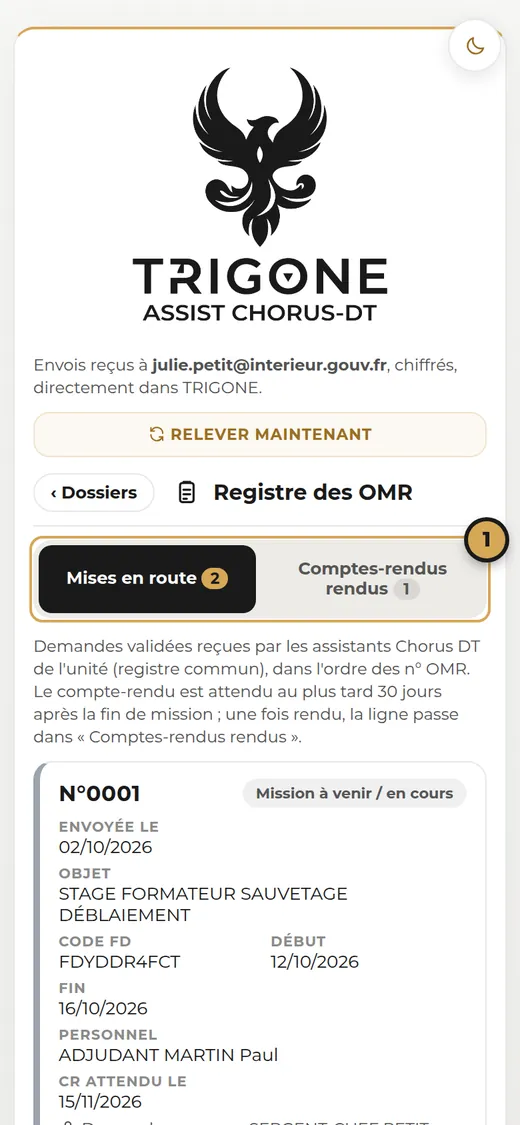
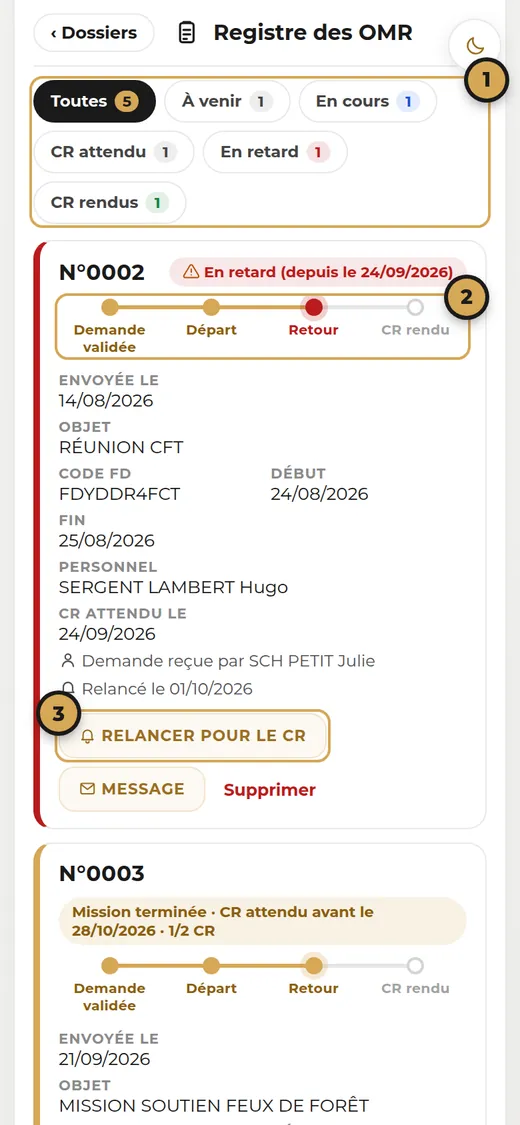
V154 : registre des OMR en un seul tableau, mis à jour tout seul (#216)
* Registre des OMR : un seul tableau avec l'étape de chaque mission (en attente de validation)

Claude-Session: https://claude.ai/code/session_01NStkfCttCkWn8HaycQvLWX

* V154 : registre des OMR en un seul tableau, étape de chaque mission, mis à jour tout seul

Claude-Session: https://claude.ai/code/session_01NStkfCttCkWn8HaycQvLWX

---------

Changed region(s): [[0.0308, 0.0, 0.9846, 1.0], [0.7385, 0.8711, 0.7692, 0.9022]]

diff --git a/app.js b/app.js
@@ -1,7 +1,7 @@
 // ===================== TRIGONE MISE EN ROUTE — logique =====================
 var MER_VERSION = 1;          // version du format des fichiers .json échangés
 // Version du code de l'appli : à augmenter à chaque publication, avec « appCodeVersion » dans updates-manifest.json.
-var APP_CODE_VERSION = 201;
+var APP_CODE_VERSION = 202;
 // Numéro de version affiché (« V1 », « V2 »…) : repart de 1 au lancement de TRIGONE jumelé et suit ensuite chaque
 // publication. APP_CODE_VERSION reste le compteur interne des mises à jour (ne jamais le faire redescendre).
 var APP_VERSION_AFFICHEE = APP_CODE_VERSION - 48;
@@ -3769,7 +3769,7 @@ function TPL_CHORUS() {
 // dates de mission, personnel, échéance du compte-rendu = fin de mission + 30 jours, marquant d'état) ; relance ou
 // message au(x) missionnaire(s) ; suppression (mission annulée). Onglet « Comptes-rendus » : les lignes dont le
 // compte-rendu est rendu, avec les montants déclarés et le total. PDF de chaque onglet. Nouvelle série de numéros.
-var MER_REGISTRE_ONGLET = 'mer', MER_REGISTRE_DELAI = 30;
+var MER_REGISTRE_ONGLET = 'tout', MER_REGISTRE_DELAI = 30, MER_REGISTRE_MINUTEUR = null;
 function MER_OMR_COMPARER(a, b) {
     if (!a.omr !== !b.omr) return a.omr ? -1 : 1;
     return String(a.omr || '').localeCompare(String(b.omr || ''), 'fr', { numeric: true }) || (a.recuLe || 0) - (b.recuLe || 0);
@@ -3780,15 +3780,24 @@ function MER_REG_PERSONNEL(x) { return (x.personnes || []).map(function(p) { ret
 // Comptes-rendus attendus : un par personne de la demande (mission collective : le chef et chaque participant).
 function MER_REG_ATTENDUS(x) { return Math.max(1, (x.personnes || []).length); }
 function MER_REG_RENDU(x) { return x.sansDemande || (x.crs || []).length >= MER_REG_ATTENDUS(x); }
+// Étape de la mission, ligne par ligne : à venir → en cours → CR attendu (ou en retard) → validé, CR rendu.
+function MER_REG_DATE(v, finJour) { if (!v) return null; var d = new Date(v); if (isNaN(d)) return null; if (finJour && !d.getHours() && !d.getMinutes()) d.setHours(23, 59, 59); return d; }
 function MER_REG_ETAT(x) {
     var n = (x.crs || []).length, att = MER_REG_ATTENDUS(x);
     if (MER_REG_RENDU(x)) return { cls: 'ok', txt: '✔ Validé — CR rendu' + (n > 1 ? 's' : '') };
-    var ech = MER_REG_ECHEANCE(x), maint = new Date();
+    var ech = MER_REG_ECHEANCE(x), maint = new Date(), deb = MER_REG_DATE(x.debut), fin = MER_REG_DATE(x.fin, true);
     var part = n ? ' · ' + n + '/' + att + ' CR' : '';
-    if (!ech) return { cls: 'attente', txt: 'CR attendu' + part };
-    if (maint > ech) return { cls: 'retard', txt: '⚠ En retard (depuis le ' + ech.toLocaleDateString('fr-FR') + ')' + part };
-    if (x.fin && maint < new Date(x.fin)) return { cls: 'avenir', txt: 'Mission à venir / en cours' + part };
-    return { cls: 'attente', txt: 'CR attendu avant le ' + ech.toLocaleDateString('fr-FR') + part };
+    if (deb && maint < deb) return { cls: 'avenir', txt: 'Mission à venir · départ le ' + deb.toLocaleDateString('fr-FR') + part };
+    if (fin && maint <= fin) return { cls: 'encours', txt: 'Mission en cours · retour le ' + fin.toLocaleDateString('fr-FR') + part };
+    if (ech && maint > ech) return { cls: 'retard', txt: '⚠ En retard (depuis le ' + ech.toLocaleDateString('fr-FR') + ')' + part };
+    return { cls: 'attente', txt: 'Mission terminée · CR attendu' + (ech ? ' avant le ' + ech.toLocaleDateString('fr-FR') : '') + part };
+}
+// Frise de la ligne : demande validée, départ, retour, compte-rendu rendu.
+function MER_REG_FRISE(x, e) {
+    var maint = new Date(), deb = MER_REG_DATE(x.debut), fin = MER_REG_DATE(x.fin, true);
+    var etapes = [['Demande validée', true], ['Départ', e.cls === 'ok' || (deb && maint >= deb)], ['Retour', e.cls === 'ok' || (fin && maint > fin)], ['CR rendu', e.cls === 'ok']];
+    var courante = -1; etapes.forEach(function(t, i) { if (t[1]) courante = i; });
+    return '<div class="MER-REG-FRISE ' + e.cls + '">' + etapes.map(function(t, i) { return '<span class="' + (t[1] ? 'fait' : '') + (i === courante ? ' ici' : '') + '"><i></i>' + t[0] + '</span>'; }).join('') + '</div>';
 }
 function MER_REG_MONTANTS(x) {
     var t = { repas: 0, hebergement: 0, transports: 0, ik: 0, tc: 0, total: 0 };
@@ -3805,53 +3814,67 @@ function MER_REG_RECU_PAR(x) {
     return t.length ? '<p class="MER-HINT MER-REG-PAR" style="margin:4px 0 0;">👤 ' + t.join(' · ') + '</p>' : '';
 }
 function MER_EUROS(v) { return (Math.round((v || 0) * 100) / 100).toLocaleString('fr-FR', { minimumFractionDigits: 2, maximumFractionDigits: 2 }) + ' €'; }
+// Un seul registre, toutes les missions ligne par ligne ; les filtres ne font que trier ce qu'on regarde.
+var MER_REG_FILTRES = [['tout', 'Toutes'], ['avenir', 'À venir'], ['encours', 'En cours'], ['attente', 'CR attendu'], ['retard', 'En retard'], ['ok', 'CR rendus']];
 function MER_REGISTRE_LIGNES() {
     var l = (window.JUMELAGE_REGISTRE ? JUMELAGE_REGISTRE() : []).slice().sort(MER_OMR_COMPARER);
-    return { mer: l.filter(function(x) { return !MER_REG_RENDU(x); }), cr: l.filter(MER_REG_RENDU) };
+    return { tout: l, mer: l.filter(function(x) { return !MER_REG_RENDU(x); }), cr: l.filter(MER_REG_RENDU) };
 }
-function OUVRIR_REGISTRE(onglet) {
-    MER_REGISTRE_ONGLET = onglet || MER_REGISTRE_ONGLET; MER_DOSSIER.CHORUS = 'registre'; SHOW_PAGE('CHORUS'); window.scrollTo(0, 0);
+function MER_REGISTRE_FILTRES() {
+    var l = MER_REGISTRE_LIGNES().tout, r = { tout: l };
+    MER_REG_FILTRES.slice(1).forEach(function(f) { r[f[0]] = l.filter(function(x) { return MER_REG_ETAT(x).cls === f[0]; }); });
+    return r;
+}
+function OUVRIR_REGISTRE(filtre) {
+    if (filtre === 'mer' || filtre === 'cr') filtre = filtre === 'cr' ? 'ok' : 'tout';   // anciens onglets
+    MER_REGISTRE_ONGLET = filtre && MER_REG_FILTRES.some(function(f) { return f[0] === filtre; }) ? filtre : (MER_REGISTRE_ONGLET === 'mer' ? 'tout' : MER_REGISTRE_ONGLET);
+    MER_DOSSIER.CHORUS = 'registre'; SHOW_PAGE('CHORUS'); window.scrollTo(0, 0);
     if (window.JUMELAGE_REGISTRE_SYNCHRO) JUMELAGE_REGISTRE_SYNCHRO();   // changements faits par les autres assistants
+    // Tant que le registre est à l'écran : relevé toutes les 30 s (une ligne ou un CR reçu par un autre assistant apparaît tout seul).
+    if (!MER_REGISTRE_MINUTEUR) MER_REGISTRE_MINUTEUR = setInterval(function() {
+        if (PAGE_ACTUELLE !== 'CHORUS' || MER_DOSSIER.CHORUS !== 'registre') { clearInterval(MER_REGISTRE_MINUTEUR); MER_REGISTRE_MINUTEUR = null; return; }
+        if (document.visibilityState === 'visible' && window.JUMELAGE_REGISTRE_SYNCHRO) JUMELAGE_REGISTRE_SYNCHRO();
+    }, 30000);
 }
 function TPL_BOUTON_REGISTRE() {
-    var r = MER_REGISTRE_LIGNES(), retard = r.mer.filter(function(x) { return MER_REG_ETAT(x).cls === 'retard'; }).length;
-    return '<button type="button" class="MER-REG-ENTREE" onclick="OUVRIR_REGISTRE(\'mer\')"><span class="MER-REG-ENTREE-IC">📋</span><span><b>Registre des OMR</b>' +
-        '<small>' + r.mer.length + ' mise' + (r.mer.length > 1 ? 's' : '') + ' en route en attente de CR · ' + r.cr.length + ' CR rendu' + (r.cr.length > 1 ? 's' : '') +
-        (retard ? ' · <span class="MER-DOSSIER-ATT">' + retard + ' en retard</span>' : '') + '</small></span><span class="MER-DOSSIER-CHEV">›</span></button>';
+    var f = MER_REGISTRE_FILTRES(), n = f.tout.length;
+    var morceaux = [n + ' mission' + (n > 1 ? 's' : '')];
+    if (f.encours.length) morceaux.push(f.encours.length + ' en cours');
+    if (f.attente.length) morceaux.push(f.attente.length + ' CR attendu' + (f.attente.length > 1 ? 's' : ''));
+    if (f.ok.length) morceaux.push(f.ok.length + ' CR rendu' + (f.ok.length > 1 ? 's' : ''));
+    return '<button type="button" class="MER-REG-ENTREE" onclick="OUVRIR_REGISTRE(\'tout\')"><span class="MER-REG-ENTREE-IC">📋</span><span><b>Registre des OMR</b>' +
+        '<small>' + morceaux.join(' · ') + (f.retard.length ? ' · <span class="MER-DOSSIER-ATT">' + f.retard.length + ' en retard</span>' : '') + '</small></span><span class="MER-DOSSIER-CHEV">›</span></button>';
 }
 function TPL_REGISTRE() {
-    var r = MER_REGISTRE_LIGNES(), cr = MER_REGISTRE_ONGLET === 'cr', l = cr ? r.cr : r.mer;
-    var onglet = function(id, txt, n) { return '<button type="button" class="MER-REG-ONGLET' + (MER_REGISTRE_ONGLET === id ? ' actif' : '') + '" onclick="OUVRIR_REGISTRE(\'' + id + '\')">' + txt + ' <span>' + n + '</span></button>'; };
+    var f = MER_REGISTRE_FILTRES(), filtre = MER_REGISTRE_ONGLET in f ? MER_REGISTRE_ONGLET : 'tout', l = f[filtre];
+    var puce = function(c) { return '<button type="button" class="MER-REG-FILTRE ' + c[0] + (filtre === c[0] ? ' actif' : '') + '" onclick="OUVRIR_REGISTRE(\'' + c[0] + '\')">' + c[1] + ' <span>' + f[c[0]].length + '</span></button>'; };
     var lignes = l.map(function(x) {
-        var e = MER_REG_ETAT(x), m = MER_REG_MONTANTS(x), ref = ESC(x.ref).replace(/'/g, '');
+        var e = MER_REG_ETAT(x), m = MER_REG_MONTANTS(x), ref = ESC(x.ref).replace(/'/g, ''), rendu = e.cls === 'ok', ech = MER_REG_ECHEANCE(x);
         var tete = '<div class="MER-REG-TETE"><b class="MER-REG-OMR">' + (x.omr ? 'N°' + ESC(x.omr) : 'Sans n°') + '</b><span class="MER-REG-MARQ ' + e.cls + '">' + e.txt + '</span></div>';
-        var corps = cr
-            ? '<div class="MER-REG-GRILLE cr"><span><small>CR rendu le</small>' + MER_REG_JOUR((x.crs || []).map(function(c) { return c.recuLe; }).sort().slice(-1)[0]) + '</span>' +
-                '<span class="large"><small>Objet</small>' + ESC(x.objet || '—') + '</span><span><small>Code FD</small>' + ESC(x.codeFD || '—') + '</span>' +
-                '<span><small>Début</small>' + MER_REG_JOUR(x.debut) + '</span><span><small>Fin</small>' + MER_REG_JOUR(x.fin) + '</span>' +
-                '<span class="large"><small>Personnel</small>' + ESC(MER_REG_PERSONNEL(x)) + '</span>' +
-                '<span><small>Repas</small>' + MER_EUROS(m.repas) + '</span><span><small>Hébergement</small>' + MER_EUROS(m.hebergement) + '</span>' +
-                '<span><small>Transports</small>' + MER_EUROS(m.transports) + '</span><span><small>IK</small>' + MER_EUROS(m.ik) + '</span>' +
-                '<span><small>Transp. commun</small>' + MER_EUROS(m.tc) + '</span><span class="total"><small>Total</small>' + MER_EUROS(m.total) + '</span></div>' + MER_REG_RECU_PAR(x)
-            : '<div class="MER-REG-GRILLE mer"><span><small>Envoyée le</small>' + MER_REG_JOUR(x.omrLe || x.recuLe) + '</span><span class="large"><small>Objet</small>' + ESC(x.objet || '—') + '</span>' +
+        var corps = '<div class="MER-REG-GRILLE mer"><span><small>Envoyée le</small>' + MER_REG_JOUR(x.omrLe || x.recuLe) + '</span><span class="large"><small>Objet</small>' + ESC(x.objet || '—') + '</span>' +
                 '<span><small>Code FD</small>' + ESC(x.codeFD || '—') + '</span><span><small>Début</small>' + MER_REG_JOUR(x.debut) + '</span><span><small>Fin</small>' + MER_REG_JOUR(x.fin) + '</span>' +
                 '<span class="large"><small>Personnel</small>' + ESC(MER_REG_PERSONNEL(x)) + '</span>' +
-                '<span><small>CR attendu le</small>' + (MER_REG_ECHEANCE(x) ? MER_REG_ECHEANCE(x).toLocaleDateString('fr-FR') : '—') + '</span></div>' +
-                MER_REG_RECU_PAR(x) +
-                ((x.relances || []).length ? '<p class="MER-HINT" style="margin:4px 0 0;">🔔 Relancé le ' + x.relances.map(function(t) { var q = (x.relancesQui || {})[t]; return MER_REG_JOUR(t) + (q ? ' (par ' + ESC(q) + ')' : ''); }).join(', ') + '</p>' : '') +
-                '<div class="MER-REG-ACTIONS"><button type="button" class="BTN BTN-GHOST BTN-SMALL" onclick="REGISTRE_MESSAGE(\'' + ref + '\', true)">🔔 Relancer pour le CR</button>' +
+                (rendu ? '<span><small>CR rendu le</small>' + MER_REG_JOUR((x.crs || []).map(function(c) { return c.recuLe; }).sort().slice(-1)[0]) + '</span>'
+                    : '<span><small>CR attendu le</small>' + (ech ? ech.toLocaleDateString('fr-FR') : '—') + '</span>') + '</div>' +
+            ((x.crs || []).length ? '<div class="MER-REG-GRILLE montants"><span><small>Repas</small>' + MER_EUROS(m.repas) + '</span><span><small>Hébergement</small>' + MER_EUROS(m.hebergement) + '</span>' +
+                '<span><small>Transports</small>' + MER_EUROS(m.transports) + '</span><span><small>IK</small>' + MER_EUROS(m.ik) + '</span>' +
+                '<span><small>Transp. commun</small>' + MER_EUROS(m.tc) + '</span><span class="total"><small>Total</small>' + MER_EUROS(m.total) + '</span></div>' : '') +
+            MER_REG_RECU_PAR(x) +
+            ((x.relances || []).length && !rendu ? '<p class="MER-HINT" style="margin:4px 0 0;">🔔 Relancé le ' + x.relances.map(function(t) { var q = (x.relancesQui || {})[t]; return MER_REG_JOUR(t) + (q ? ' (par ' + ESC(q) + ')' : ''); }).join(', ') + '</p>' : '') +
+            (rendu ? '' : '<div class="MER-REG-ACTIONS">' + (e.cls === 'attente' || e.cls === 'retard' ? '<button type="button" class="BTN BTN-GHOST BTN-SMALL" onclick="REGISTRE_MESSAGE(\'' + ref + '\', true)">🔔 Relancer pour le CR</button>' : '') +
                 '<button type="button" class="BTN BTN-GHOST BTN-SMALL" onclick="REGISTRE_MESSAGE(\'' + ref + '\', false)">✉ Message</button>' +
-                '<button type="button" class="BTN-DANGER-TEXT" onclick="REGISTRE_SUPPRIMER(\'' + ref + '\')">Supprimer</button></div>';
-        return '<div class="MER-REG-LIGNE ' + e.cls + '">' + tete + corps + '</div>';
+                '<button type="button" class="BTN-DANGER-TEXT" onclick="REGISTRE_SUPPRIMER(\'' + ref + '\')">Supprimer</button></div>');
+        return '<div class="MER-REG-LIGNE ' + e.cls + '">' + tete + MER_REG_FRISE(x, e) + corps + '</div>';
     }).join('');
-    var totaux = cr ? l.reduce(function(t, x) { var m = MER_REG_MONTANTS(x); Object.keys(t).forEach(function(k) { t[k] += m[k]; }); return t; }, { repas: 0, hebergement: 0, transports: 0, ik: 0, tc: 0, total: 0 }) : null;
+    var avecMontants = l.filter(function(x) { return (x.crs || []).length; });
+    var total = avecMontants.reduce(function(t, x) { return t + MER_REG_MONTANTS(x).total; }, 0);
+    var vide = { tout: 'Aucune mission dans le registre pour l\'instant.', avenir: 'Aucune mission à venir.', encours: 'Aucune mission en cours.', attente: 'Aucun compte-rendu attendu.', retard: 'Aucun compte-rendu en retard.', ok: 'Aucun compte-rendu rendu pour l\'instant.' }[filtre];
     return '<div class="MER-DOSSIER-TETE"><button type="button" class="MER-DOSSIER-RETOUR" onclick="OUVRIR_DOSSIER(\'CHORUS\', null)">‹ Dossiers</button><span class="MER-REG-ENTREE-IC petit">📋</span><b>Registre des OMR</b></div>' +
-        '<div class="MER-REG-ONGLETS">' + onglet('mer', 'Mises en route', r.mer.length) + onglet('cr', 'Comptes-rendus rendus', r.cr.length) + '</div>' +
-        '<p class="MER-HINT" style="margin:0 0 10px;">' + (cr ? 'Missions dont le compte-rendu est rendu, avec les montants déclarés par le missionnaire.'
-            : 'Demandes validées reçues par les assistants Chorus DT de l\'unité (registre commun), dans l\'ordre des n° OMR. Le compte-rendu est attendu au plus tard ' + MER_REGISTRE_DELAI + ' jours après la fin de mission ; une fois rendu, la ligne passe dans « Comptes-rendus rendus ».') + '</p>' +
-        (lignes || '<div class="MER-EMPTY">' + (cr ? 'Aucun compte-rendu rendu pour l\'instant.' : 'Aucune mise en route en attente de compte-rendu.') + '</div>') +
-        (totaux && l.length ? '<div class="MER-REG-TOTAL"><span>Total des ' + l.length + ' mission' + (l.length > 1 ? 's' : '') + '</span><b>' + MER_EUROS(totaux.total) + '</b></div>' : '') +
-        '<div class="MER-REG-PIED"><button type="button" class="BTN BTN-PRIMARY" onclick="REGISTRE_PDF()"' + (l.length ? '' : ' disabled') + '>📄 PDF de cet onglet</button>' +
+        '<div class="MER-REG-FILTRES">' + MER_REG_FILTRES.map(puce).join('') + '</div>' +
+        '<p class="MER-HINT" style="margin:0 0 10px;">Registre commun à tous les assistants Chorus DT de l\'unité : chaque mission, dans l\'ordre des n° OMR, avec son étape (à venir, en cours, compte-rendu attendu au plus tard ' + MER_REGISTRE_DELAI + ' jours après la fin, en retard, validé). Il se met à jour avec « Relever maintenant ».</p>' +
+        (lignes || '<div class="MER-EMPTY">' + vide + '</div>') +
+        (avecMontants.length ? '<div class="MER-REG-TOTAL"><span>Total des ' + avecMontants.length + ' compte' + (avecMontants.length > 1 ? 's' : '') + '-rendu' + (avecMontants.length > 1 ? 's' : '') + ' de cette liste</span><b>' + MER_EUROS(total) + '</b></div>' : '') +
+        '<div class="MER-REG-PIED"><button type="button" class="BTN BTN-PRIMARY" onclick="REGISTRE_PDF()"' + (l.length ? '' : ' disabled') + '>📄 PDF de cette liste</button>' +
         '<button type="button" class="BTN BTN-GHOST BTN-SMALL" onclick="REGISTRE_SERIE()">🔢 Numérotation OMR (nouvelle série)</button>' +
         '<button type="button" class="BTN-DANGER-TEXT" onclick="REGISTRE_VIDER()">🗑 Tout effacer et repartir à 0001</button></div>';
 }
@@ -3939,7 +3962,8 @@ function REGISTRE_VIDER_OK() {
 function REGISTRE_PDF() {
     var jsPDFCtor = window.jspdf && window.jspdf.jsPDF ? window.jspdf.jsPDF : window.jsPDF;
     if (!jsPDFCtor) { MSG_ERREUR('PDF impossible', 'Le module PDF n\'est pas chargé : rouvrez TRIGONE.'); return; }
-    var r = MER_REGISTRE_LIGNES(), cr = MER_REGISTRE_ONGLET === 'cr', l = cr ? r.cr : r.mer;
+    var f = MER_REGISTRE_FILTRES(), filtre = MER_REGISTRE_ONGLET in f ? MER_REGISTRE_ONGLET : 'tout', l = f[filtre];
+    var nomFiltre = (MER_REG_FILTRES.filter(function(c) { return c[0] === filtre; })[0] || ['', 'Toutes'])[1];
     var doc = new jsPDFCtor({ orientation: 'landscape', unit: 'mm', format: 'a4' }), W = 297, M = 12;
     if (window.JUMELAGE_PDF_STYLE) JUMELAGE_PDF_STYLE(doc);
     var logo = !!(window.JUMELAGE_LOGO_PDF && window.JUMELAGE_LOGO_PRET()), dy = logo ? 22 : 0;
@@ -3947,30 +3971,27 @@ function REGISTRE_PDF() {
     if (logo) window.JUMELAGE_LOGO_PDF(doc, M + doc.getTextWidth('TRIGONE') / 2, 4, 21);
     doc.text('TRIGONE', M, 12 + dy);
     doc.setFont('helvetica', 'normal'); doc.setFontSize(9); doc.setTextColor(82, 82, 82);
-    doc.text('Registre des OMR — ' + (cr ? 'comptes-rendus rendus' : 'mises en route en attente de compte-rendu'), M, 18 + dy);
+    doc.text('Registre des OMR — ' + (filtre === 'tout' ? 'toutes les missions' : nomFiltre.toLowerCase()), M, 18 + dy);
     doc.setFont('helvetica', 'bold'); doc.setFontSize(10); doc.setTextColor(176, 128, 42);
     doc.text(l.length + ' ligne' + (l.length > 1 ? 's' : ''), W - M, 12 + dy, { align: 'right' });
     doc.setFont('helvetica', 'normal'); doc.setFontSize(7.5); doc.setTextColor(120, 120, 120);
     doc.text('Édité le ' + new Date().toLocaleString('fr-FR'), W - M, 18 + dy, { align: 'right' });
     doc.setFillColor(214, 167, 86); doc.rect(0, 22 + dy, W, 0.8, 'F');
-    var head = cr ? [['N° OMR', 'CR rendu le', 'Objet', 'Code FD', 'Début', 'Fin', 'Personnel', 'Repas', 'Hébergement', 'Transports', 'IK', 'Transp. commun', 'Total']]
-        : [['N° OMR', 'Envoyée le', 'Objet', 'Code FD', 'Début', 'Fin', 'Personnel', 'CR attendu le', 'État']];
+    var head = [['N° OMR', 'Envoyée le', 'Objet', 'Code FD', 'Début', 'Fin', 'Personnel', 'Étape', 'Repas', 'Hébergement', 'Transports', 'IK', 'Transp. commun', 'Total']];
+    var vide = function(x, v) { return (x.crs || []).length ? MER_EUROS(v) : '—'; };
     var body = l.map(function(x) {
-        if (cr) { var m = MER_REG_MONTANTS(x); return [x.omr || '—', MER_REG_JOUR((x.crs || []).map(function(c) { return c.recuLe; }).sort().slice(-1)[0]), x.objet || '', x.codeFD || '—', MER_REG_JOUR(x.debut), MER_REG_JOUR(x.fin), MER_REG_PERSONNEL(x), MER_EUROS(m.repas), MER_EUROS(m.hebergement), MER_EUROS(m.transports), MER_EUROS(m.ik), MER_EUROS(m.tc), MER_EUROS(m.total)]; }
-        var e = MER_REG_ETAT(x), ech = MER_REG_ECHEANCE(x);
-        return [x.omr || '—', MER_REG_JOUR(x.omrLe || x.recuLe), x.objet || '', x.codeFD || '', MER_REG_JOUR(x.debut), MER_REG_JOUR(x.fin), MER_REG_PERSONNEL(x), ech ? ech.toLocaleDateString('fr-FR') : '—', e.txt.replace(/[✔⚠]\s?/g, '')];
+        var e = MER_REG_ETAT(x), m = MER_REG_MONTANTS(x);
+        return [x.omr || '—', MER_REG_JOUR(x.omrLe || x.recuLe), x.objet || '', x.codeFD || '—', MER_REG_JOUR(x.debut), MER_REG_JOUR(x.fin), MER_REG_PERSONNEL(x), e.txt.replace(/[✔⚠]\s?/g, ''),
+            vide(x, m.repas), vide(x, m.hebergement), vide(x, m.transports), vide(x, m.ik), vide(x, m.tc), vide(x, m.total)];
     });
-    var foot = null;
-    if (cr) {
-        var t = l.reduce(function(a, x) { var m = MER_REG_MONTANTS(x); Object.keys(a).forEach(function(k) { a[k] += m[k]; }); return a; }, { repas: 0, hebergement: 0, transports: 0, ik: 0, tc: 0, total: 0 });
-        foot = [['', '', '', '', '', '', 'TOTAL', MER_EUROS(t.repas), MER_EUROS(t.hebergement), MER_EUROS(t.transports), MER_EUROS(t.ik), MER_EUROS(t.tc), MER_EUROS(t.total)]];
-    }
-    doc.autoTable({ startY: 27 + dy, margin: { left: M, right: M }, head: head, body: body, foot: foot || undefined, showFoot: foot ? 'lastPage' : 'never',
-        theme: 'plain', styles: { fontSize: 7.6, cellPadding: 1.6, textColor: [26, 26, 26], lineColor: [230, 230, 230], lineWidth: 0.1 },
+    var t = l.reduce(function(a, x) { var m = MER_REG_MONTANTS(x); Object.keys(a).forEach(function(k) { a[k] += m[k]; }); return a; }, { repas: 0, hebergement: 0, transports: 0, ik: 0, tc: 0, total: 0 });
+    var foot = [['', '', '', '', '', '', '', 'TOTAL', MER_EUROS(t.repas), MER_EUROS(t.hebergement), MER_EUROS(t.transports), MER_EUROS(t.ik), MER_EUROS(t.tc), MER_EUROS(t.total)]];
+    doc.autoTable({ startY: 27 + dy, margin: { left: M, right: M }, head: head, body: body, foot: foot, showFoot: 'lastPage',
+        theme: 'plain', styles: { fontSize: 7, cellPadding: 1.4, textColor: [26, 26, 26], lineColor: [230, 230, 230], lineWidth: 0.1 },
         headStyles: { fillColor: false, textColor: [26, 26, 26], fontStyle: 'bold' }, footStyles: { fillColor: false, textColor: [26, 26, 26], fontStyle: 'bold' },
         alternateRowStyles: { fillColor: [250, 248, 243] },
-        columnStyles: cr ? { 0: { fontStyle: 'bold' }, 12: { fontStyle: 'bold', halign: 'right' }, 7: { halign: 'right' }, 8: { halign: 'right' }, 9: { halign: 'right' }, 10: { halign: 'right' }, 11: { halign: 'right' } } : { 0: { fontStyle: 'bold' } } });
-    try { doc.save('Registre OMR - ' + (cr ? 'comptes-rendus' : 'mises en route') + ' - ' + new Date().toISOString().slice(0, 10) + '.pdf'); }
+        columnStyles: { 0: { fontStyle: 'bold' }, 8: { halign: 'right' }, 9: { halign: 'right' }, 10: { halign: 'right' }, 11: { halign: 'right' }, 12: { halign: 'right' }, 13: { fontStyle: 'bold', halign: 'right' } } });
+    try { doc.save('Registre OMR - ' + nomFiltre.toLowerCase() + ' - ' + new Date().toISOString().slice(0, 10) + '.pdf'); }
     catch (e) { MSG_ERREUR('PDF impossible', e.message || String(e)); }
 }
 window.addEventListener('trigone-registre', function() { if (typeof PAGE_ACTUELLE !== 'undefined' && PAGE_ACTUELLE === 'CHORUS' && !MER_RESULTATS_VERIF) { var y = window.scrollY; SHOW_PAGE('CHORUS'); window.scrollTo(0, y); } });

diff --git a/tests/test-registre.js b/tests/test-registre.js
@@ -42,12 +42,12 @@ module.exports = async function() {
     }, [dem, MAILS.C, debut.toISOString().slice(0, 16), fin.toISOString().slice(0, 16)]);
     await envoyer(d); await envoyer(d2);
     await c.evaluate(() => JUMELAGE_RELEVER()); await attendre(3000);
-    await c.evaluate(() => OUVRIR_REGISTRE('mer')); await attendre(600);
+    await c.evaluate(() => OUVRIR_REGISTRE('tout')); await attendre(600);
     // Registre commun : il peut contenir les lignes d'autres essais ; on ne regarde que celles de cette série.
     const reg = await c.evaluate(p => JUMELAGE_REGISTRE().filter(x => String(x.omr).indexOf(p) === 0), pref);
     verifier(reg.length === 2 && reg.every(x => x.omr && x.codeFD && x.personnes.length), 'registre : une ligne par demande validée reçue (n° OMR, code FD, personnel)');
     const texte = await c.evaluate(() => document.querySelector('.CARD').textContent);
-    verifier(texte.indexOf('N°' + pref + '0007') < texte.indexOf('N°' + pref + '0008') && /En retard/.test(texte), 'onglet Mises en route : ordre des n° OMR, « En retard » (fin de mission + 30 jours dépassée)');
+    verifier(texte.indexOf('N°' + pref + '0007') < texte.indexOf('N°' + pref + '0008') && /En retard/.test(texte) && await c.evaluate(() => document.querySelectorAll('.MER-REG-FRISE').length > 0 && document.querySelectorAll('.MER-REG-FILTRE').length === 6), 'registre unique : ordre des n° OMR, frise par ligne, filtres, « En retard » (fin de mission + 30 jours dépassée)');
     // Relance du missionnaire : message dans sa boîte TRIGONE (Questions).
     await c.evaluate(r => REGISTRE_MESSAGE(r, true), d.id); await attendre(1500);
     verifier(/Rappel : votre compte-rendu/.test(await c.inputValue('#MER-REG-TXT')), 'relance : texte de rappel prérempli (modifiable)');
@@ -60,14 +60,17 @@ module.exports = async function() {
     await m.evaluate(([dest, omr, ref]) => JUMELAGE_ENVOYER_DIRECT(dest, 'CR', 'cr.pdf', JSON.stringify({ app: 'TRIGONE-CR', version: 1, missionnaire: 'SGT DUPONT Jean', libelle: 'Formation', dates: '', corps: '', fichiers: [],
         omr: omr, mref: ref, montants: { repas: 45.5, hebergement: 120, transports: 0, ik: 82.3, tc: 0, total: 247.8 } })), [MAILS.C, d.omr, d.id]);
     await c.evaluate(() => JUMELAGE_RELEVER()); await attendre(3000);
-    await c.evaluate(() => OUVRIR_REGISTRE('cr')); await attendre(600);
+    await c.evaluate(() => OUVRIR_REGISTRE('tout')); await attendre(600);
     const t2 = await c.evaluate(() => document.querySelector('.CARD').textContent);
-    verifier(/Validé/.test(t2) && t2.indexOf(pref + '0007') >= 0 && /247,80/.test(t2) && /82,30/.test(t2), 'onglet Comptes-rendus rendus : ligne validée, montants (repas, hébergement, IK…) et total');
-    await c.evaluate(() => OUVRIR_REGISTRE('mer')); await attendre(400);
-    verifier((await c.evaluate(() => document.querySelector('.CARD').textContent)).indexOf(pref + '0007') < 0, 'la ligne rendue a quitté l\'onglet Mises en route');
+    verifier(/Validé/.test(t2) && t2.indexOf(pref + '0007') >= 0 && /247,80/.test(t2) && /82,30/.test(t2), 'registre : la ligne passe à « Validé — CR rendu », avec ses montants (repas, hébergement, IK…) et le total');
+    await c.evaluate(() => OUVRIR_REGISTRE('retard')); await attendre(400);
+    verifier((await c.evaluate(() => document.querySelector('.CARD').textContent)).indexOf(pref + '0007') < 0, 'filtre « En retard » : la ligne rendue n\'y est plus');
+    await c.evaluate(() => OUVRIR_REGISTRE('ok')); await attendre(400);
+    verifier((await c.evaluate(() => document.querySelector('.CARD').textContent)).indexOf(pref + '0007') >= 0, 'filtre « CR rendus » : la ligne rendue y est');
+    await c.evaluate(() => OUVRIR_REGISTRE('tout')); await attendre(400);
     // PDF de l'onglet, et suppression d'une ligne (mission annulée).
     const dl = c.waitForEvent('download', { timeout: 15000 }); await c.evaluate(() => REGISTRE_PDF());
-    verifier(/Registre OMR - mises en route/.test((await dl).suggestedFilename()), 'PDF du registre (onglet affiché)');
+    verifier(/Registre OMR - toutes/.test((await dl).suggestedFilename()), 'PDF du registre (liste affichée)');
     await c.evaluate(r => REGISTRE_SUPPRIMER(r), d2.id); await attendre(400);
     await c.click('#MSG-OVERLAY .BTN-PRIMARY, #MSG-OVERLAY .MSG-BTN-CONFIRM').catch(() => c.evaluate(() => { const b = [...document.querySelectorAll('#MSG-OVERLAY button')].find(x => /Supprimer/.test(x.textContent)); b && b.click(); }));
     await attendre(400);
@@ -94,12 +97,15 @@ module.exports = async function() {
     const l1 = await c.evaluate(o => JUMELAGE_REGISTRE().filter(x => x.omr === o), d3.omr), l2 = await c2.evaluate(o => JUMELAGE_REGISTRE().filter(x => x.omr === o), d3.omr);
     verifier(l1.length === 1 && l2.length === 1 && l1[0].ref === d3.id && l2[0].ref === d3.id && (l1[0].crs || []).length === 1 && (l2[0].crs || []).length === 1,
         'demande chez le 1er, CR chez le 2e : réunis sur une seule ligne, chez les deux');
-    // Relance par le 2e, suppression par le 2e : visibles chez le 1er.
+    // Relance par le 2e, suppression par le 2e : visibles chez le 1er. Registre ouvert chez le 1er : mis à jour tout seul (30 s).
+    await c.evaluate(() => OUVRIR_REGISTRE('tout')); await attendre(1500);
     await c2.evaluate(r => JUMELAGE_REGISTRE_MAJ(r, { relances: [Date.now()], relancesQui: { 1: 'ADJ TEST' } }), d3.id); await attendre(1200);
     await c.evaluate(() => JUMELAGE_REGISTRE_SYNCHRO()); await attendre(1000);
     verifier(await c.evaluate(r => (JUMELAGE_REGISTRE().filter(x => x.ref === r)[0].relances || []).length === 1, d3.id), 'relance faite par le 2e : visible chez le 1er');
+    verifier(await c.evaluate(o => [...document.querySelectorAll('.MER-REG-LIGNE')].some(e => e.textContent.indexOf('N°' + o) >= 0), d3.omr), 'registre ouvert chez le 1er : la ligne y est');
     await c2.evaluate(r => JUMELAGE_REGISTRE_MAJ(r, null), d3.id); await attendre(1200);
-    await c.evaluate(() => JUMELAGE_REGISTRE_SYNCHRO()); await attendre(1000);
+    await attendre(32000);   // sans rien toucher chez le 1er
+    verifier(await c.evaluate(o => ![...document.querySelectorAll('.MER-REG-LIGNE')].some(e => e.textContent.indexOf('N°' + o) >= 0), d3.omr), 'registre ouvert chez le 1er : la suppression du 2e s\'affiche toute seule (relevé toutes les 30 s)');
     verifier(await c.evaluate(r => !JUMELAGE_REGISTRE().some(x => x.ref === r), d3.id), 'suppression faite par le 2e : la ligne disparaît chez le 1er');
     // Tout effacer et repartir à 0001 : registre vidé chez les deux assistants, numérotation remise à 0001.
     await c.evaluate(() => JUMELAGE_REGISTRE_SYNCHRO()); await attendre(800);

diff --git a/index.html b/index.html
@@ -5,7 +5,7 @@
 <meta name="viewport" content="width=device-width, initial-scale=1, viewport-fit=cover">
 <title>TRIGONE — Mise en route</title>
 <link rel="manifest" href="manifest.json">
-<script src="jumelage.js?v=154"></script>
+<script src="jumelage.js?v=155"></script>
 <meta name="theme-color" content="#ecebe7">
 <link href="fonts/montserrat.css" rel="stylesheet"><!-- police hébergée avec TRIGONE : identique hors ligne -->
 <link rel="apple-touch-icon" href="apple-touch-icon.png?v=3">
@@ -517,6 +517,26 @@ body.dark-mode .MER-SUIVI-TRAIT { background: #525252; } body.dark-mode .MER-SUI
 .MER-REG-ONGLET { flex: 1; border: 0; border-radius: 10px; padding: 10px 8px; background: transparent; font: 700 0.8rem Montserrat, system-ui, sans-serif; color: #555; cursor: pointer; }
 .MER-REG-ONGLET span { display: inline-block; min-width: 20px; padding: 1px 6px; border-radius: 999px; background: rgba(0,0,0,0.08); font-size: 0.72rem; }
 .MER-REG-ONGLET.actif { background: #1a1a1a; color: #fff; } .MER-REG-ONGLET.actif span { background: #d6a756; color: #1a1a1a; }
+/* Registre unique : filtres par étape, frise de la mission ligne par ligne */
+.MER-REG-FILTRES { display: flex; flex-wrap: wrap; gap: 6px; margin: 4px 0 12px; }
+.MER-REG-FILTRE { border: 1.5px solid var(--tg-border); border-radius: 999px; padding: 7px 12px; background: #fff; font: 700 0.76rem Montserrat, system-ui, sans-serif; color: #444; cursor: pointer; }
+.MER-REG-FILTRE span { display: inline-block; min-width: 18px; margin-left: 2px; padding: 1px 6px; border-radius: 999px; background: rgba(0,0,0,0.07); font-size: 0.7rem; text-align: center; }
+.MER-REG-FILTRE.actif { background: #1a1a1a; border-color: #1a1a1a; color: #fff; } .MER-REG-FILTRE.actif span { background: #d6a756; color: #1a1a1a; }
+.MER-REG-FILTRE.retard span { background: rgba(185,28,28,0.12); color: #b91c1c; } .MER-REG-FILTRE.ok span { background: rgba(21,128,61,0.12); color: #15803d; } .MER-REG-FILTRE.encours span { background: rgba(37,99,235,0.12); color: #1d4ed8; }
+.MER-REG-FRISE { display: flex; margin: 2px 0 12px; }
+.MER-REG-FRISE span { flex: 1; position: relative; padding-top: 18px; text-align: center; font: 700 0.64rem Montserrat, system-ui, sans-serif; color: #a3a3a3; letter-spacing: 0.02em; }
+.MER-REG-FRISE span::before { content: ""; position: absolute; top: 6px; left: -50%; right: 50%; height: 3px; background: #e5e5e5; }
+.MER-REG-FRISE span:first-child::before { display: none; }
+.MER-REG-FRISE i { position: absolute; top: 1px; left: 50%; width: 13px; height: 13px; margin-left: -6.5px; border-radius: 50%; background: #fff; border: 2.5px solid #d4d4d4; z-index: 1; box-sizing: border-box; }
+.MER-REG-FRISE span.fait { color: #8a5f12; } .MER-REG-FRISE span.fait::before { background: #d6a756; } .MER-REG-FRISE span.fait i { background: #d6a756; border-color: #d6a756; }
+.MER-REG-FRISE span.ici i { box-shadow: 0 0 0 4px rgba(214,167,86,0.25); }
+.MER-REG-FRISE.ok span.fait { color: #15803d; } .MER-REG-FRISE.ok span.fait::before, .MER-REG-FRISE.ok span.fait i { background: #15803d; border-color: #15803d; }
+.MER-REG-FRISE.retard span.ici i { background: #b91c1c; border-color: #b91c1c; box-shadow: 0 0 0 4px rgba(185,28,28,0.2); } .MER-REG-FRISE.retard span.ici { color: #b91c1c; }
+.MER-REG-FRISE.encours span.ici i { background: #2563eb; border-color: #2563eb; box-shadow: 0 0 0 4px rgba(37,99,235,0.2); } .MER-REG-FRISE.encours span.ici { color: #1d4ed8; }
+.MER-REG-LIGNE.encours { border-left-color: #2563eb; } .MER-REG-MARQ.encours { background: rgba(37,99,235,0.1); color: #1d4ed8; }
+.MER-REG-GRILLE.montants { margin-top: 8px; padding-top: 8px; border-top: 1px dashed var(--tg-border); grid-template-columns: repeat(3, minmax(0, 1fr)); }
+body.dark-mode .MER-REG-FILTRE { background: #1f1f1f; border-color: #3a3a3a; color: #d4d4d4; } body.dark-mode .MER-REG-FILTRE.actif { background: #d6a756; color: #1a1a1a; border-color: #d6a756; } body.dark-mode .MER-REG-FILTRE.actif span { background: #1a1a1a; color: #d6a756; }
+body.dark-mode .MER-REG-FRISE i { background: #1f1f1f; border-color: #4a4a4a; } body.dark-mode .MER-REG-FRISE span::before { background: #3a3a3a; }
 .MER-REG-LIGNE { border: 1.5px solid var(--tg-border); border-left: 5px solid #d6a756; border-radius: 14px; padding: 12px 14px; margin: 0 0 10px; background: #fff; }
 .MER-REG-LIGNE.retard { border-left-color: #b91c1c; } .MER-REG-LIGNE.ok { border-left-color: #15803d; } .MER-REG-LIGNE.avenir { border-left-color: #9ca3af; }
 .MER-REG-TETE { display: flex; align-items: center; justify-content: space-between; gap: 8px; flex-wrap: wrap; margin-bottom: 8px; }
@@ -535,6 +555,7 @@ body.dark-mode .MER-SUIVI-TRAIT { background: #525252; } body.dark-mode .MER-SUI
 @media (min-width: 1100px) {
   .MER-REG-GRILLE.mer { grid-template-columns: 96px minmax(0, 2fr) 104px 92px 92px minmax(0, 2.2fr) 110px; }
   .MER-REG-GRILLE.cr { grid-template-columns: 110px minmax(0, 2fr) 120px 110px 110px minmax(0, 2fr); }
+  .MER-REG-GRILLE.montants { grid-template-columns: repeat(6, minmax(0, 1fr)); }
   .MER-REG-GRILLE.cr span:nth-child(n+7) { padding-top: 8px; border-top: 1px dashed var(--tg-border); }
   .MER-REG-GRILLE span.large { grid-column: auto; } .MER-REG-GRILLE small { white-space: nowrap; }
  .MER-REG-PIED { flex-direction: row; align-items: center; } .MER-REG-PIED .BTN { width: auto; } }
@@ -970,6 +991,6 @@ body.dark-mode .MER-BASCULE-ROLE { background: rgba(255,255,255,0.08); } body.da
     </div>
   </div>
 </div>
-<script src="app.js?v=154"></script>
+<script src="app.js?v=155"></script>
 </body>
 </html>

diff --git a/notice/notice.js b/notice/notice.js
@@ -4,7 +4,7 @@
 // appli avec des personnages fictifs (notice/img), repères dorés ① ② ③ repris dans le texte.
 // {B} : chemin de la racine de TRIGONE (« ../ » depuis Compte-rendu).
 (function() {
-    var VERSION = 153;
+    var VERSION = 154;
     // Capture : un bouton, pour que le toucher l'agrandisse au lieu de tourner la page.
     function img(n) { return '<button type="button" class="n-capt" data-zoom="{B}notice/img/' + n + '.webp" aria-label="Agrandir la capture"><img src="{B}notice/img/' + n + '.webp" alt=""><i>⤢</i></button>'; }
     function r(n) { return '<span class="n-r">' + n + '</span>'; }
@@ -149,11 +149,11 @@
     ajouter(chapitre(10, 'Assistant Chorus DT', 'L\'assistant Chorus DT reçoit les demandes validées par les deux valideurs et les comptes-rendus de mission. Il tient le registre des OMR, commun à tous les assistants de l\'unité.',
         ['Mon espace', 'Demandes validées : contrôle et PDF', 'Comptes-rendus reçus', 'Registre des OMR'], 'chorus'));
     ajouter(page('Mon espace', duo('40-chorus-choix', et(['Avec le rôle ASSIST CHORUS DT, l\'écran d\'accueil montre un 3<sup>e</sup> espace : ' + r(1) + ' <b>ASSIST CHORUS-DT</b>.', '<b>Mon espace</b> indique le nombre de demandes validées à traiter et de comptes-rendus reçus.', 'Touchez le logo pour ouvrir l\'espace.'])), 'chorus'));
-    ajouter(page('L\'espace Chorus DT', duo('41-chorus-espace', et(['<b>Registre des OMR</b> : toutes les mises en route et leurs comptes-rendus.', r(1) + ' <b>Demandes de mise en route</b> : validées par les deux valideurs.', '<b>Comptes-rendus de mission</b> : envoyés au retour de mission.', '<b>Relever maintenant</b> : chercher tout de suite les nouveaux envois.'])), 'chorus'));
+    ajouter(page('L\'espace Chorus DT', duo('41-chorus-espace', et(['<b>Registre des OMR</b> : toutes les missions de l\'unité et où elles en sont.', r(1) + ' <b>Demandes de mise en route</b> : validées par les deux valideurs.', '<b>Comptes-rendus de mission</b> : envoyés au retour de mission.', '<b>Relever maintenant</b> : chercher tout de suite les nouveaux envois.'])), 'chorus'));
     ajouter(page('Traiter une demande', duo('42-chorus-dossier', et(['<b>Aperçu</b> : relire la demande.', '<b>Télécharger le PDF</b> : TRIGONE vérifie d\'abord les signatures et les pièces jointes, puis produit le PDF final (demande signée + NDS / DAF).', '<b>Contrôle détaillé</b> : le détail de la vérification.', '<b>Question</b> : demander une précision au missionnaire.', 'Créez l\'ordre de mission dans Chorus DT, puis marquez la demande <b>Traitée</b> : le missionnaire est prévenu.'])), 'chorus'));
-    ajouter(page('Registre des OMR', duo('43-registre', et([r(1) + ' Deux onglets : <b>Mises en route</b> (en attente de compte-rendu) et <b>Comptes-rendus rendus</b> (avec les montants).', 'Chaque ligne : n° OMR, date, objet, code FD, dates, personnel, <b>CR attendu le</b> (fin de mission + 30 jours), « En retard » sinon.', r(2) + ' <b>Relancer pour le CR</b> : un rappel dans la boîte du missionnaire. <b>Supprimer</b> : mission annulée.', r(3) + ' <b>PDF de cet onglet</b> et <b>Numérotation OMR</b> (nouvelle série).'])) +
+    ajouter(page('Registre des OMR', duo('43-registre', et(['Un seul tableau : <b>toutes les missions</b>, dans l\'ordre des n° OMR. ' + r(1) + ' Les filtres (À venir, En cours, CR attendu, En retard, CR rendus) n\'affichent qu\'une partie.', r(2) + ' La <b>frise</b> de chaque ligne montre où en est la mission : demande validée → départ → retour → <b>CR rendu</b> (point bleu : en cours, rouge : en retard, vert : validé).', r(3) + ' <b>Relancer pour le CR</b> (mission terminée) : un rappel dans la boîte du missionnaire. <b>Supprimer</b> : mission annulée.', 'Écran ouvert : mis à jour <b>tout seul toutes les 30 s</b>. En bas : <b>PDF de cette liste</b>, Numérotation OMR, Tout effacer.'])) +
         savoir('Le registre est <b>commun à tous les assistants Chorus DT de l\'unité</b> : chacun voit tout, avec « reçu par ».'), 'chorus'));
-    ajouter(page('Comptes-rendus reçus', duo('77-registre-cr', et(['Le compte-rendu arrive dans <b>Comptes-rendus de mission</b>, avec ses justificatifs.', '<b>PDF complet</b> : le compte-rendu et tous ses justificatifs à la suite, en un seul PDF.', 'Dans le registre, la ligne passe dans <b>Comptes-rendus rendus</b> : « Validé — CR rendu », repas, hébergement, transports, IK, total.', 'Marquez-le <b>Traité</b> : le missionnaire est prévenu.'])), 'chorus'));
+    ajouter(page('Comptes-rendus reçus', duo('77-registre-cr', et(['Le compte-rendu arrive dans <b>Comptes-rendus de mission</b>, avec ses justificatifs.', '<b>PDF complet</b> : le compte-rendu et tous ses justificatifs à la suite, en un seul PDF.', 'Dans le registre, la ligne passe à <b>« Validé — CR rendu »</b> (frise en vert), avec repas, hébergement, transports, IK et total.', 'Marquez-le <b>Traité</b> : le missionnaire est prévenu.'])), 'chorus'));
 
     // ---------- 11. Compte-rendu ----------
     ajouter(chapitre(11, 'Le compte-rendu de mission', 'TRIGONE Compte-rendu accompagne la mission : vous appuyez au départ, à l\'arrivée sur site, au départ du site et au retour. Les frais sont calculés, le compte-rendu part avec ses justificatifs en un seul envoi.',

diff --git a/cr/index.html b/cr/index.html
@@ -11,7 +11,7 @@
 <link rel="manifest" href="../manifest.json">
 <meta name="apple-mobile-web-app-title" content="TRIGONE">
 <meta name="application-name" content="TRIGONE">
-<script src="../jumelage.js?v=154"></script>
+<script src="../jumelage.js?v=155"></script>
 <link rel="icon" type="image/png" sizes="192x192" href="icon-192.png?v=3">
 <link rel="apple-touch-icon" href="apple-touch-icon.png?v=3">
 <link href="../fonts/montserrat.css" rel="stylesheet"><!-- police hébergée avec TRIGONE : identique hors ligne -->
@@ -11511,7 +11511,7 @@ function SET_UPDATE_SEEN_VERSION(cle, version) {
 // Numéro de version du code de CETTE appli. À augmenter à chaque publication, en même temps que
 // « appCodeVersion » dans updates-manifest.json : c'est ce qui permet à l'appli de savoir si elle est
 // déjà à jour (elle affiche alors les « Nouveautés ») ou en retard (elle demande la mise à jour).
-var APP_CODE_VERSION = 251;
+var APP_CODE_VERSION = 252;
 // Jumelage : numéro affiché « V1, V2… » ; APP_CODE_VERSION reste le compteur interne des mises à jour
 // (à augmenter avec appCodeVersion de cr/updates-manifest.json, sans jamais le faire redescendre).
 var APP_VERSION_AFFICHEE = APP_CODE_VERSION - 98;

diff --git a/jumelage.js b/jumelage.js
@@ -1013,7 +1013,7 @@
     // Dès l'ouverture (démarrage ou retour dans l'appli), TRIGONE vérifie s'il existe une publication plus récente
     // et se met à jour tout seul. Jamais au mauvais moment : uniquement sur l'accueil, sans fenêtre ouverte
     // (chaque appli le dit via JUMELAGE_PEUT_RECHARGER) ; sinon au prochain retour sur l'accueil.
-    var BUILD = 154, MAJ_DISPO = false, CLE_RECHARGE = 'trigone_recharge_build';
+    var BUILD = 155, MAJ_DISPO = false, CLE_RECHARGE = 'trigone_recharge_build';
     function peutRecharger() {
         if (document.visibilityState === 'hidden') return false;
         if (document.body && document.body.classList.contains('demo-active')) return false;

diff --git a/cr/sw.js b/cr/sw.js
@@ -1,6 +1,6 @@
 // Copie jumelée dans TRIGONE Mise en route (dossier cr/) : caches préfixés « trigone-cr- » ; ceux de
 // Mise en route (« trigone-mise-en-route- ») ne sont jamais effacés d'ici.
-const CACHE_NAME = 'trigone-cr-v543';
+const CACHE_NAME = 'trigone-cr-v544';
 const ASSETS = [
   './',
   './manifest.json',

diff --git a/sw.js b/sw.js
@@ -1,4 +1,4 @@
-const CACHE_NAME = 'trigone-mise-en-route-v208';
+const CACHE_NAME = 'trigone-mise-en-route-v209';
 const ASSETS = [
   './',
   './manifest.json',
